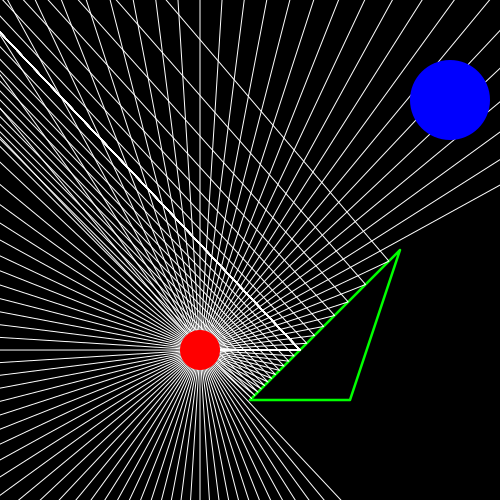
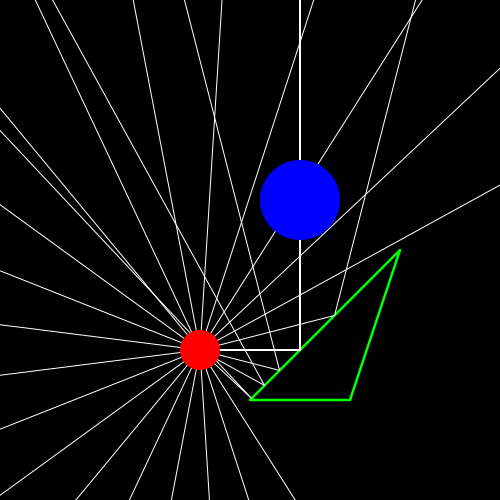
reflected ray finally working :DDDD

diff --git a/multipatprop.py b/multipatprop.py
@@ -13,11 +13,12 @@ class System:
         self.transmitter = transmitter
         self.receiver = receiver
         self.interferers = interferers
-    """
+
     def get_paths_propagated(self, starting_number: int, receiver_diameter: float, max_reflections: int) -> list[list[Point2D]]:
         paths = []
         for n in range(starting_number):
-            path = self.get_path(tau * (n / starting_number), max_reflections)
+            angle = tau * (n / starting_number)
+            path = self.get_path(Vector(cos(angle), sin(angle)), max_reflections)
             if path[1] is None:
                 continue
             propagated_ray = Ray2D(path[0][-1], angle=path[1])
@@ -26,7 +27,7 @@ class System:
                 path[0].append(self.receiver.position)
                 paths.append(path[0])
         return paths
-    """
+
 
     def get_paths(self, starting_number: int, max_reflections: int) -> list[tuple[list[Point], Vector | None]]:
         paths = []
@@ -46,7 +47,7 @@ class System:
             closest_point = None
             closest_segment = None
             for interferer in self.interferers:
-                for segment in interferer.segments:
+                for s, segment in enumerate(interferer.segments):
                     if segment is segment_ignore:
                         continue
                     intersection = ray.intersect(segment)
@@ -56,10 +57,11 @@ class System:
                             closest = True
                             closest_point = point
                             closest_segment = segment
+
             if not closest:
                 return path, vector
             path.append(closest_point)
-            normal = Vector(closest_segment.p2.y - closest_segment.p1.y, closest_segment.p1.x - closest_segment.p2.x)
+            normal = Vector(-closest_segment.v.y, closest_segment.v.x).normalized()
             vector = vector.reflect(normal)
             ray = Ray(closest_point, vector)
             segment_ignore = closest_segment
@@ -93,4 +95,5 @@ class Interferer:
         for point_1, point_2 in pairwise(points + [points[0]]):
             segment = Segment(point_1, point_2)
             self.segments.append(segment)
+
 

diff --git a/main.py b/main.py
@@ -5,12 +5,12 @@ from multipatprop import System, Transmitter, Receiver, Interferer, Vector, Poin
 
 
 transmitter = Transmitter(Point(4, 3))
-receiver = Receiver(Point(9, 8))
+receiver = Receiver(Point(6, 6))
 interferers = [Interferer([Point(7, 2), Point(8, 5), Point(5, 2)])]
 
 system = System(transmitter, receiver, interferers)
-paths = system.get_paths(starting_number=100, max_reflections=10)
-#paths_propagated = system.get_paths_propagated(starting_number=100, receiver_diameter=1.6, max_reflections=10)
+paths = system.get_paths(starting_number=25, max_reflections=10)
+paths_propagated = system.get_paths_propagated(starting_number=100, receiver_diameter=1.6, max_reflections=10)
 
 camera_position = Point(5, 5)
 camera_zoom = 0.1
@@ -57,7 +57,7 @@ with cairo.ImageSurface(cairo.FORMAT_RGB24, 500, 500) as surface:
         context.set_line_width(0.02)
         context.set_line_join(cairo.LINE_JOIN_ROUND)
         context.stroke()
-    """    
+
     for path_propagated in paths_propagated:
         for point in path_propagated:
             context.line_to(point.x, point.y)
@@ -65,7 +65,7 @@ with cairo.ImageSurface(cairo.FORMAT_RGB24, 500, 500) as surface:
         context.set_line_width(0.02)
         context.set_line_join(cairo.LINE_JOIN_ROUND)
         context.stroke()
-    """
+
     context.arc(system.transmitter.position.x, system.transmitter.position.y, 0.4, 0, tau)
     context.set_source_rgb(1, 0, 0)
     context.fill()
